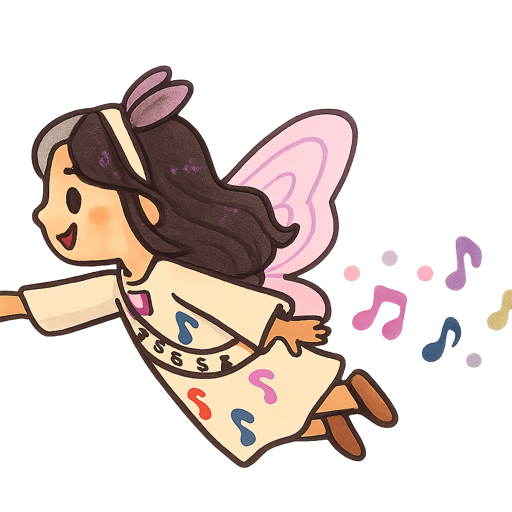
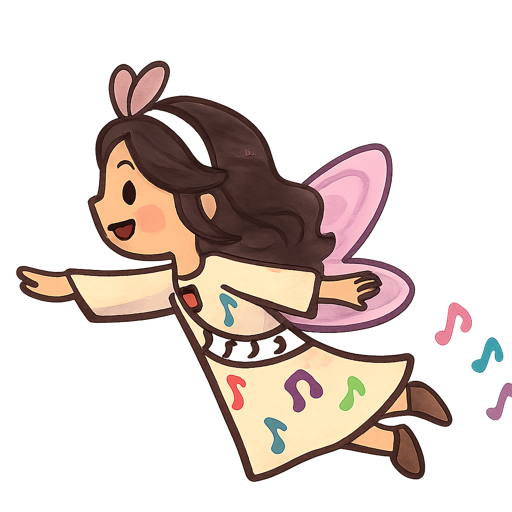
Round-3 fixes, Benny the baker, live mini-game window, hero flight sprites
Voice channels with stale-line expiry, non-blooming labels, faceted gem
and side camera for the win, fuller Grabble ending, subtitle clamp, pip
dice; engine: rejoin gives the full mini-game time, flights can complete
a lap, correct bump flag, no empty-bag spill line, Grabble target 7 and
win target 12 with 8 launch spaces; armed basket raised clear of pawns;
32 s Catcher cue; phone: live JPEG frame stream to the board, 3D hoops,
the player's own hero flies with per-hero sprites, Grabble's face,
editable room code; Benny hero with artwork, voice lines and his
sweet-on-Miss-Suds behaviour; README play-test checklist.

diff --git a/public/board/main.js b/public/board/main.js
@@ -5,7 +5,6 @@ import { EffectComposer } from 'three/addons/postprocessing/EffectComposer.js';
 import { RenderPass } from 'three/addons/postprocessing/RenderPass.js';
 import { UnrealBloomPass } from 'three/addons/postprocessing/UnrealBloomPass.js';
 import { OutputPass } from 'three/addons/postprocessing/OutputPass.js';
-import { Timer } from 'three/addons/misc/Timer.js';
 import * as layout from './layout.js';
 import { SPACES, BRIDGE_INDEX, CASTLE_INDEX, CAMERA, CATCHER_STAGES, LANDMARKS, heightAt, GRABBLE_START } from './layout.js';
 import { HERO_BY_ID } from '/shared/heroes.js';
@@ -106,7 +105,7 @@ function camToPawn(id, { dist = 11, height = 7, duration = 1.1 } = {}) { const p
 function screenPos(v3) { const v = v3.clone().project(camera); return { x: (v.x + 1) / 2 * innerWidth, y: (1 - v.y) / 2 * innerHeight }; }
 
 // ---------- render loop ----------
-const timer = new Timer(); let elapsed = 0; let lastTick = -1;
+const timer = new THREE.Timer(); let elapsed = 0; let lastTick = -1;
 function frame() {
   fitRenderer(); timer.update(); const dt = Math.min(0.05, timer.getDelta()); elapsed += dt;
   village?.update?.(dt, elapsed); catcher?.update?.(dt, elapsed); pawns?.update?.(dt);

diff --git a/README.md b/README.md
@@ -17,11 +17,19 @@ Environment (`.env`): `PORT` (default 3000), `WIN_TARGET` (default 10; use 6 for
 
 Roll and scurry along the winding path through the village, collecting **Starlight Shards**. Special spaces start a quick **mini-game on your phone**: flap through flower rings on a Fairy Flight, find the twinkling flower, slide Charli to catch shards, dodge Grabble's net, catch strawberries for the cake. **Grabble** the gem snatcher scurries around after every turn, snatching shards into his loot bag; catch up with him for a Vine Grab, or land on **Launch the Catcher** to send a friend (or Grabble!) to the Bridge, ring the bell, and watch the Starlight Catcher run its chain reaction around the whole village. **Ten shards** make the Gem whole and win. If Grabble fills his bag first, everyone loses. Full rules: `docs/game-design-v2.md` (v1 base in `docs/game-design.md`).
 
+## Play-test checklist
+
+1. Laptop and phones on the same Wi-Fi. `npm start`, open the board, full-screen it, tap *Tap to begin* (sound on).
+2. Each player scans the QR code (or types the address), enters a name, picks a hero. Up to 6: Kyah, Ayva, Charli, Poodle, Miss Suds, Benny. The first phone is the host and starts at 2+ players.
+3. Things to watch: the mini-games on the phone and their live window on the big screen; Grabble scurrying after every turn; the Starlight Catcher's tour when someone launches it; Benny and Miss Suds in the same game.
+4. If a phone reloads or drops, it rejoins automatically. If the board is reloaded mid-game, tap *Tap to begin* again and play resumes.
+5. Short game for testing: `WIN_TARGET=6 npm start`.
+
 ## Project map
 
 - `server/` — Express + Socket.IO server and the rules engine (`game.js`).
 - `public/board/` — laptop display: Three.js scene (`village.js`, `contraption.js`), pawns, HUD, audio, `main.js` orchestrator, `layout.js` (space positions, the shared source of truth).
-- `public/play/` — phone controller.
+- `public/play/` — phone controller and the seven mini-games (`minigames.js`).
 - `public/assets/` — generated images and audio plus their manifests.
 - `tools/` — asset generation scripts (OpenAI images, ElevenLabs voice/SFX/music, procedural fallbacks) and a static preview server.
 - `docs/` — design doc, protocol, grader reports.
